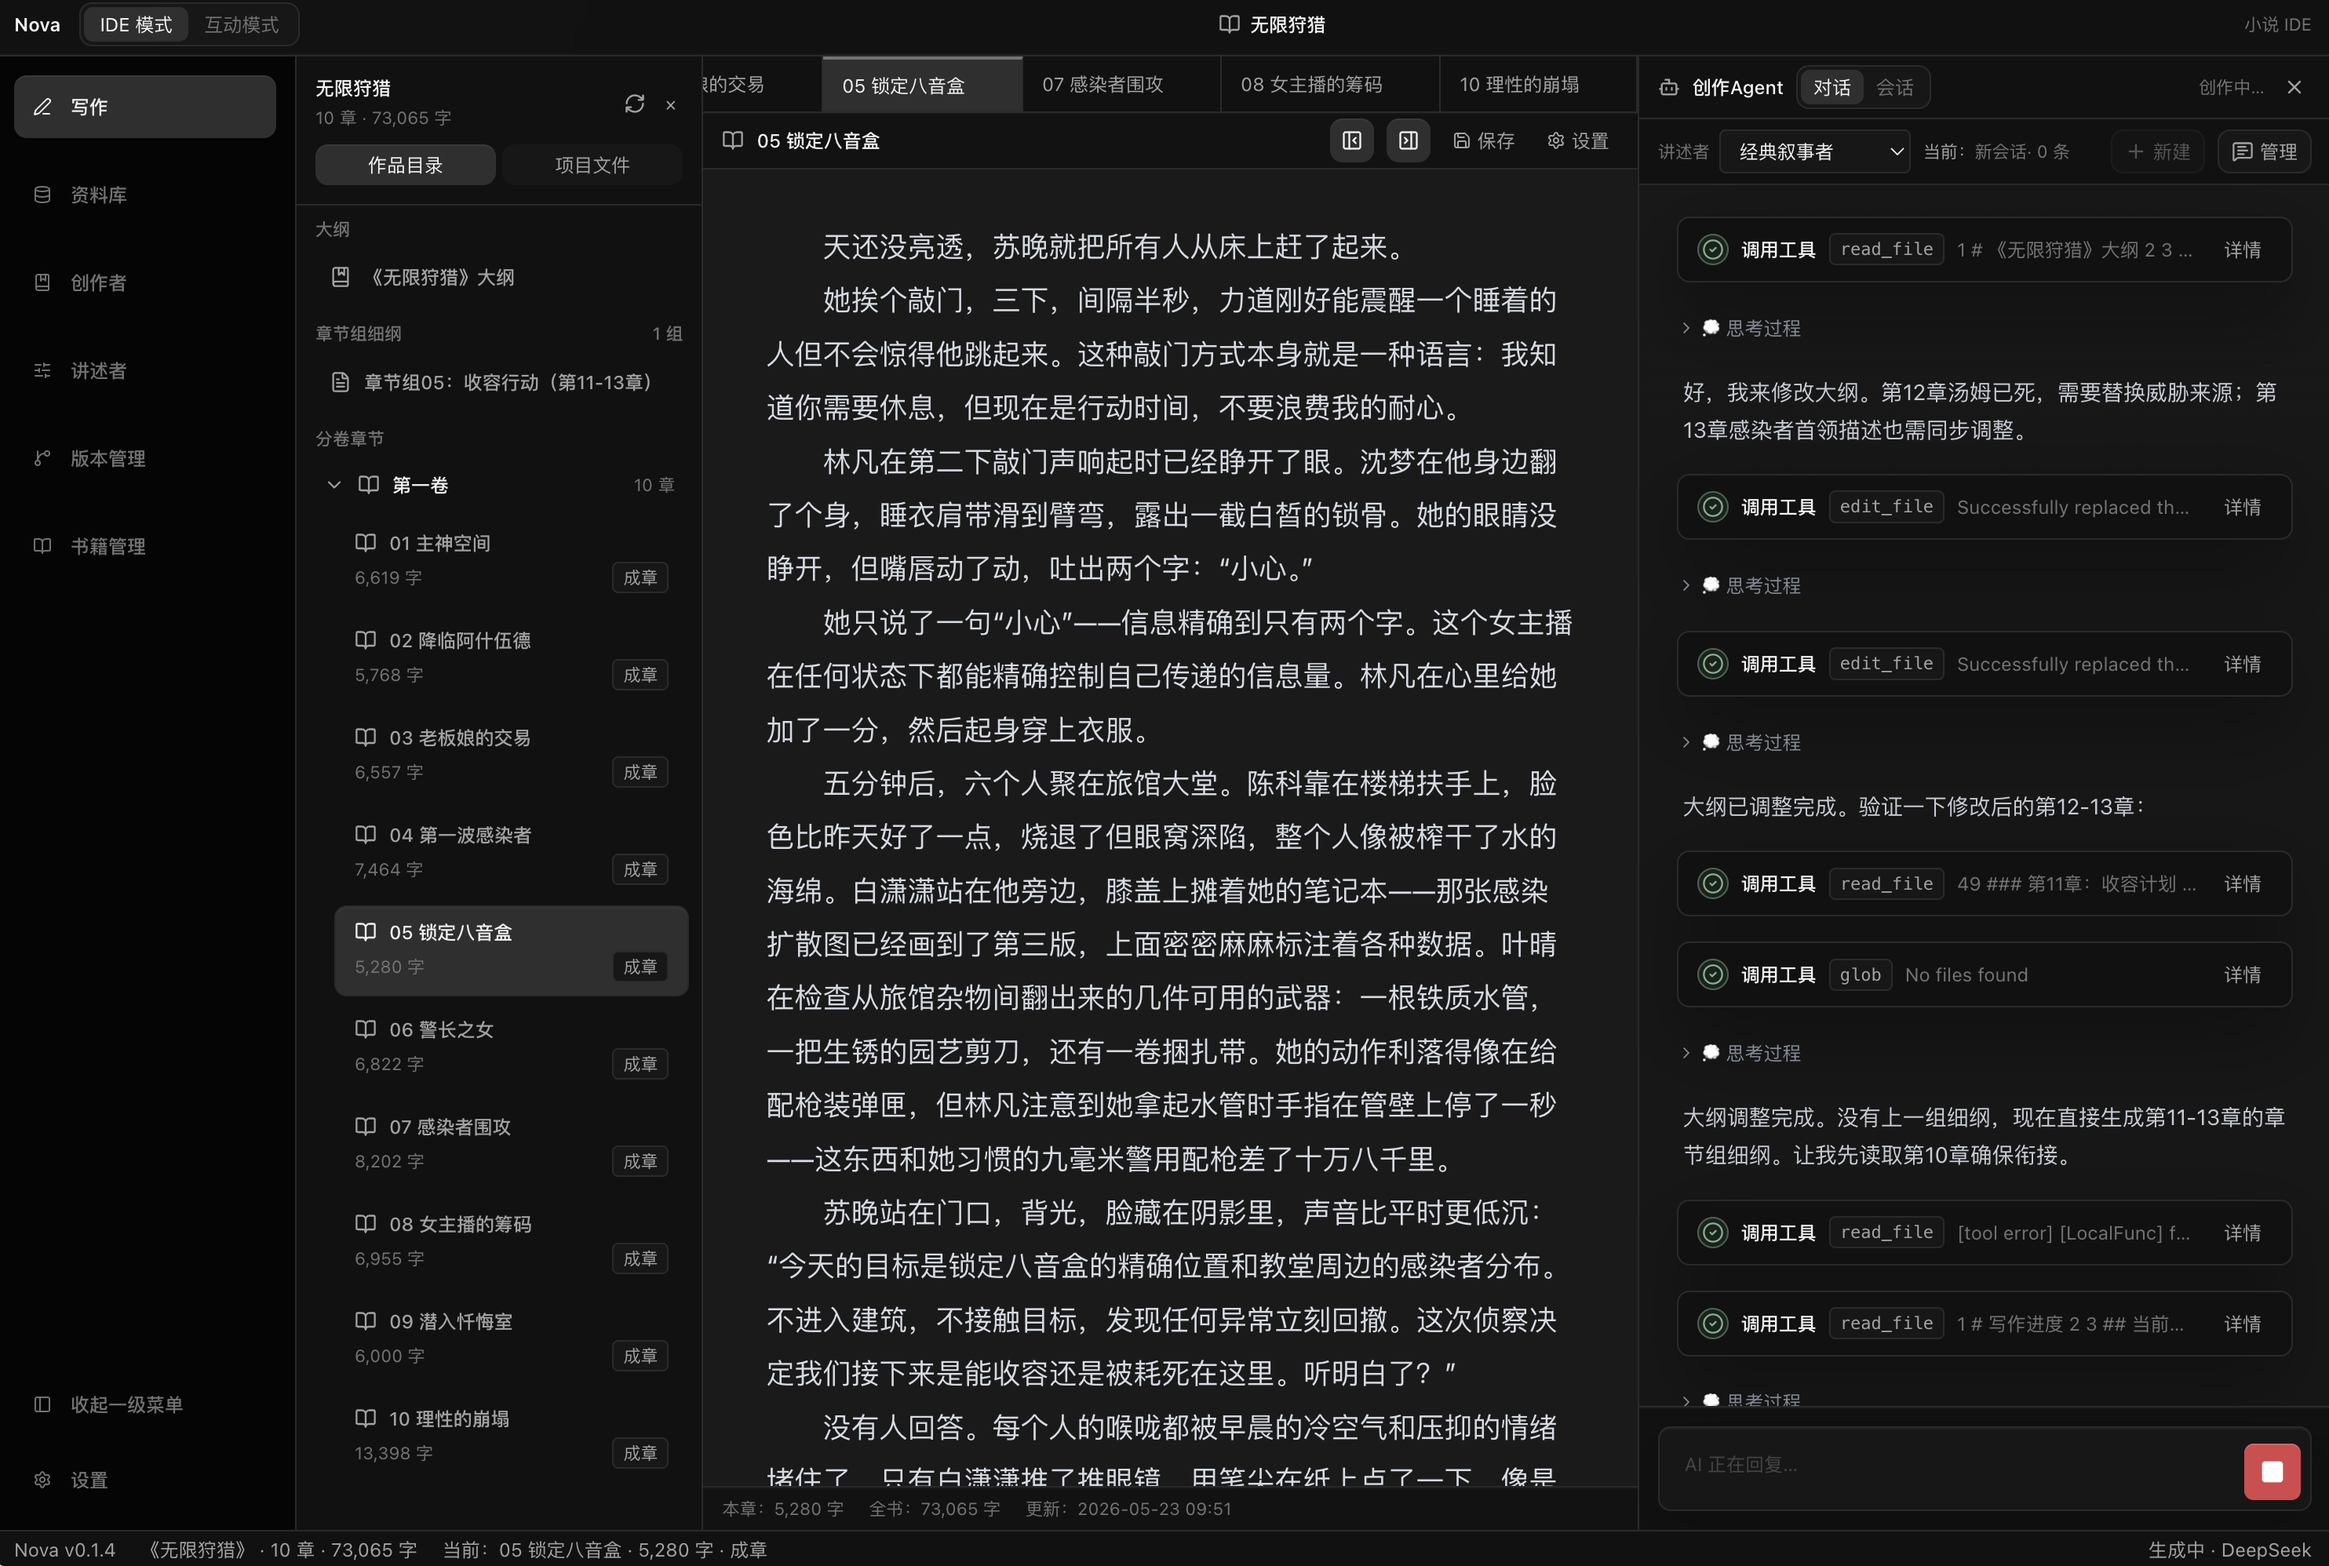
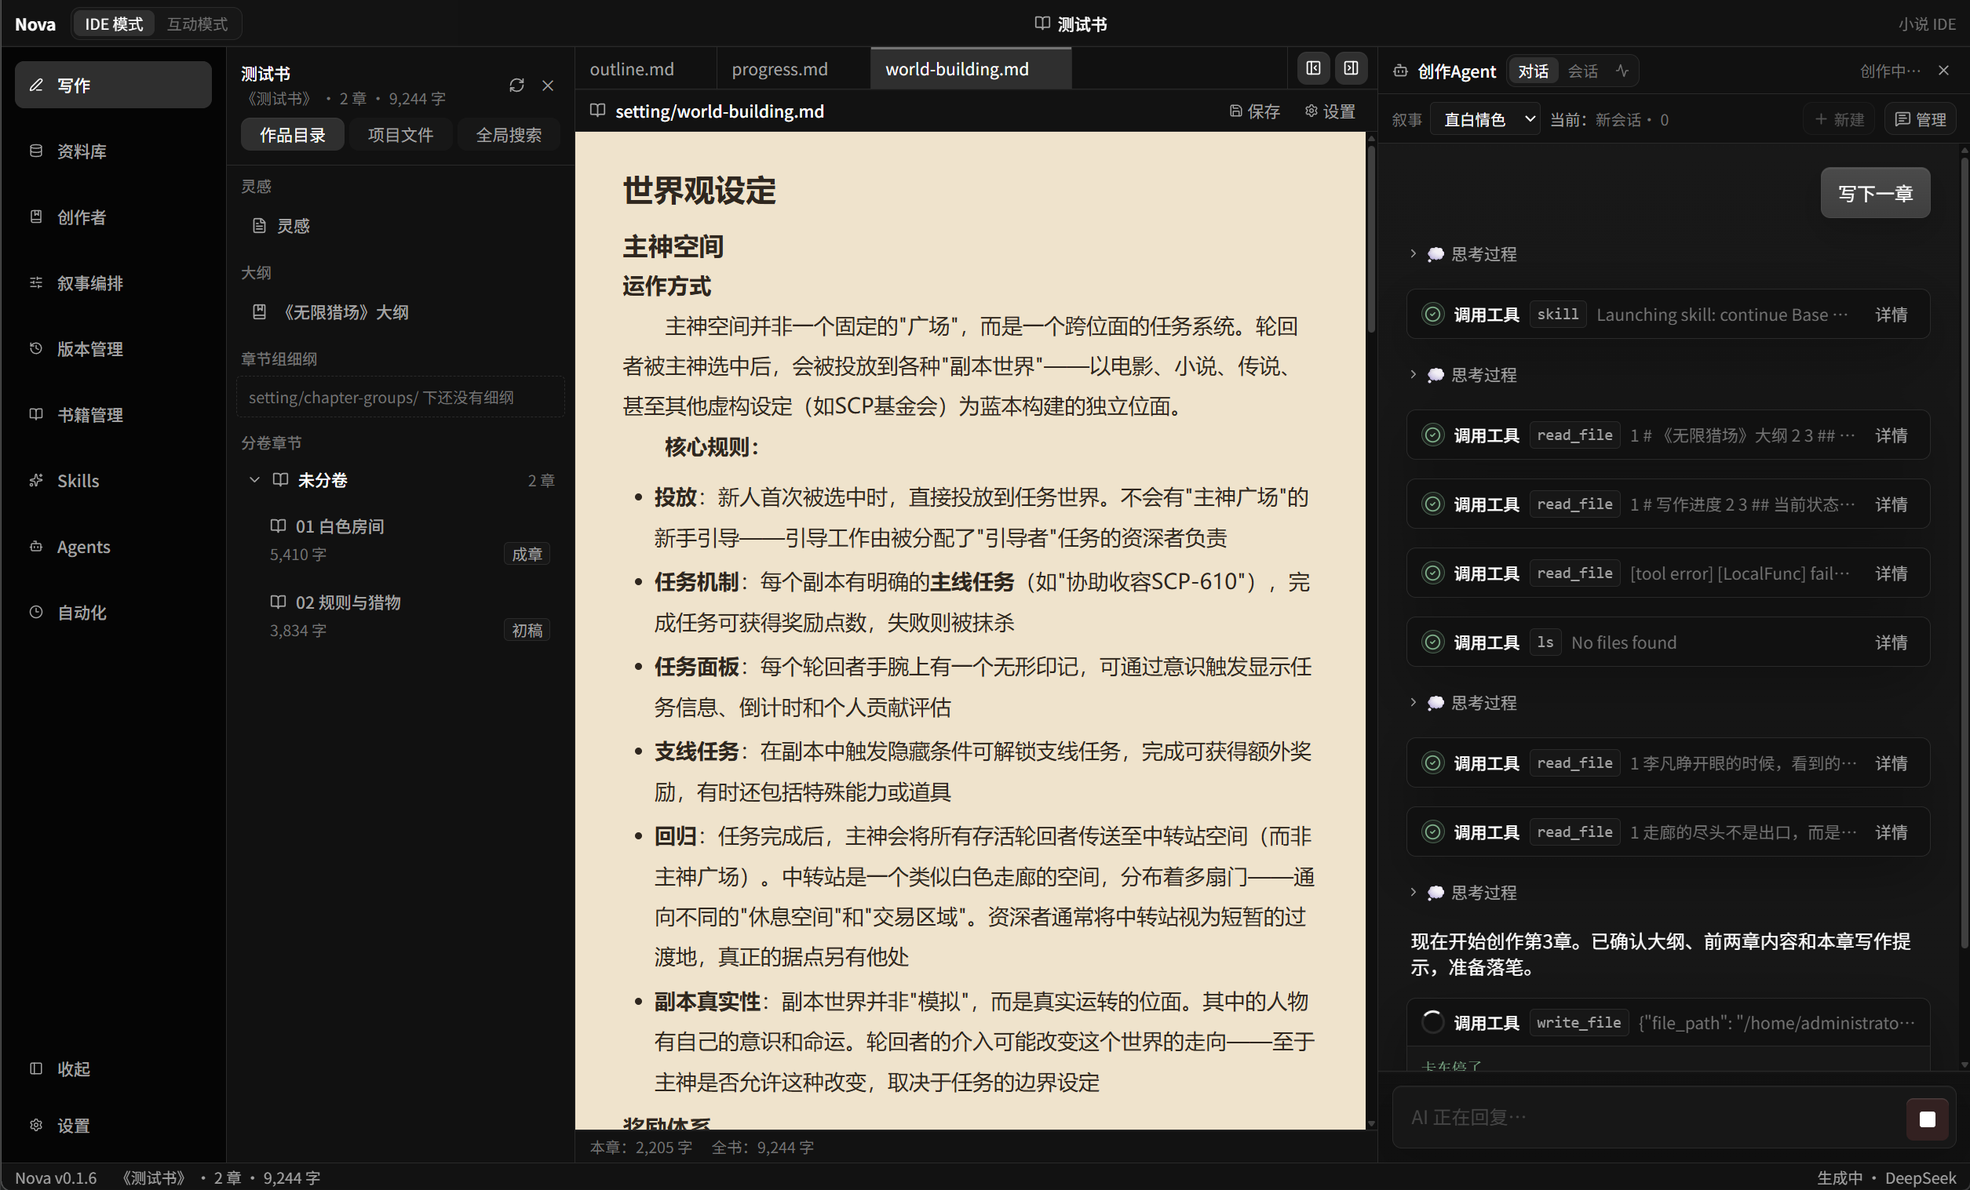
Refactor code structure for improved readability and maintainability

diff --git a/README.en.md b/README.en.md
@@ -30,6 +30,10 @@
 
 ![Nova Interactive Story Workspace](./img/interactive.png)
 
+### Branch
+
+![Branch](./img/branch.png)
+
 ### Lore Library
 
 ![Nova Lore Library](./img/setting.png)

diff --git a/README.md b/README.md
@@ -30,6 +30,10 @@
 
 ![Nova 互动故事工作台](./img/interactive.png)
 
+### 剧情分支
+
+![剧情分支](./img/branch.png)
+
 ### 资料库
 
 ![Nova 资料库](./img/setting.png)
